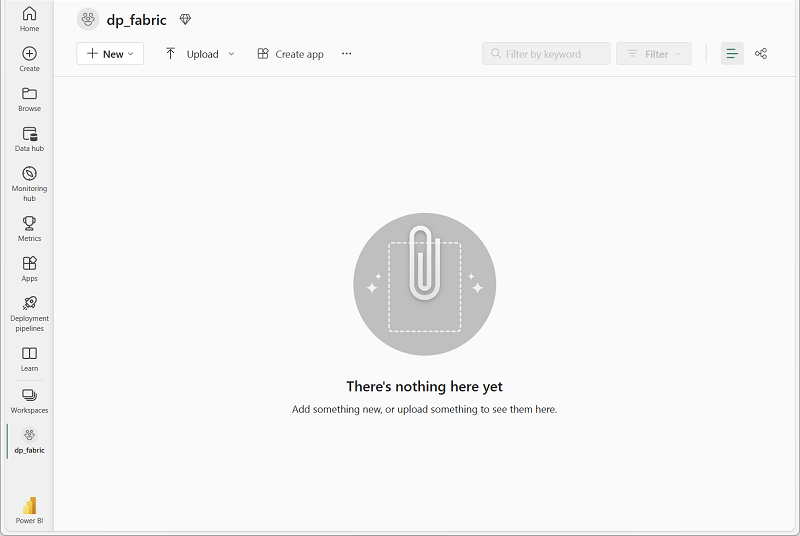
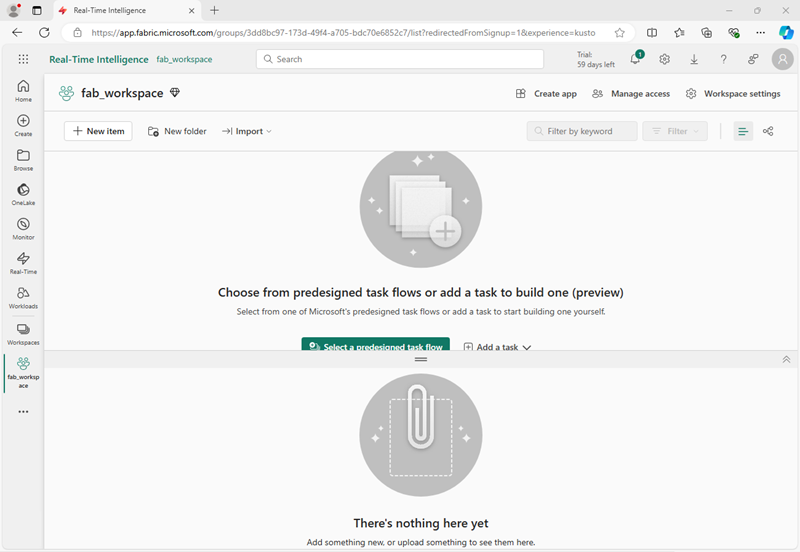
Updated RTI exercise

diff --git a/Instructions/Labs/07-real-time-Intelligence.md b/Instructions/Labs/07-real-time-Intelligence.md
@@ -6,15 +6,15 @@ lab:
 
 # Get started with Real-Time Intelligence in Microsoft Fabric
 
-Microsoft Fabric provides a runtime that you can use to store and query data by using Kusto Query Language (KQL). Kusto is optimized for data that includes a time series component, such as real-time data from log files or IoT devices.
+Microsoft Fabric provides a Real-Time Hub in which you can create analytical solutions for real-time data streams. In this exercise, you'll explore some of the main features of the Real-Time Hub in order to familiarize yourself with them.
 
 This lab takes approximately **30** minutes to complete.
 
-> **Note**: You need a [Microsoft Fabric trial](https://learn.microsoft.com/fabric/get-started/fabric-trial) to complete this exercise.
+> **Note**: You need a [Microsoft Fabric tenant](https://learn.microsoft.com/fabric/get-started/fabric-trial) to complete this exercise.
 
 ## Create a workspace
 
-Before working with data in Fabric, create a workspace with the Fabric trial enabled.
+Before working with data in Fabric, you need to create a workspace with the Fabric capacity enabled.
 
 1. On the [Microsoft Fabric home page](https://app.fabric.microsoft.com/home?experience=fabric) at `https://app.fabric.microsoft.com/home?experience=fabric`, select **Real-Time Intelligence**.
 1. In the menu bar on the left, select **Workspaces** (the icon looks similar to &#128455;).
@@ -23,123 +23,142 @@ Before working with data in Fabric, create a workspace with the Fabric trial ena
 
     ![Screenshot of an empty workspace in Fabric.](./Images/new-workspace.png)
 
-## Download file for KQL database
+## Create an Eventhouse
 
-Now that you have a workspace, it's time to download the data file you're going to analyze.
+Now that you have a workspace, you can start creating the Fabric items you'll need for your real-time intelligence solution. we'll start by creating an eventhouse, which contains a KQL database for your real-time data.
 
-1. Download the data file for this exercise from [https://raw.githubusercontent.com/MicrosoftLearning/dp-data/main/sales.csv](https://raw.githubusercontent.com/MicrosoftLearning/dp-data/main/sales.csv), saving it as **sales.csv** on your local computer (or lab VM if applicable)
-1. Return to the browser window with the **Microsoft Fabric** Experience.
+1. On the menu bar on the left, select **Home**; and then in the Real-Time Intelligence home page, create a new **Eventhouse**, giving it a unique name of your choice.
+1. Close any tips or prompts that are displayed until you see your new empty eventhouse.
 
-## Create a KQL database
+    ![Screenshot of a new eventhouse](./Images/create-eventhouse.png)
 
-Kusto query language (KQL) is used to query static or streaming data in a table that is defined in a KQL database. To analyze the sales data, you must create a table in a KQL database and ingest the data from the file.
+1. In the pane on the left, note that your eventhouse contains a KQL database with the same name as the eventhouse. You can create tables for your real-time data in this database, or create additional databases as necessary.
+1. Select the database, and note that there is an associated *queryset*. This file contains some sample KQL queries that you can use to get started querying the tables in your database.
 
-1. At the bottom left of the portal, switch to the Real-Time Intelligence experience.
+    However, currently there are no tables to query. Let's resolve that problem by using an eventstream to ingest some data into the database.
 
-    ![Screenshot of the experience switcher menu.](./Images/fabric-real-time.png)
+## Create an Eventstream
 
-2. In the Real-Time Intelligence home page, create a new **Eventhouse** with a name of your choice.
+1. In the main page of your KQL database, select **Get data**.
+2. For the data source, select **Eventstream** > **New eventstream**. Name the Eventstream `stock-stream`.
 
-   ![Screenshot of the RTI Editor with Eventhouse Highlighted.](./Images/create-kql-db.png)
+    The creation of your new eventstream will be completed in just a few moments. Once established, you will be automatically redirected to the primary editor, ready to begin integrating sources into your event stream.
 
-   The Eventhouse is used to group and manage your databases across projects. An empty KQL database is automatically created with the eventhouse's name.
-   
-3. Once the new database has been created, select it from the list on the left under KQL Databases. Then select the option to get data from **Local File**. Use the wizard to import the data into a new table by selecting the following options:
-    - **Destination**:
-        - **Database**: *The database you created is already selected*
-        - **Table**: *Create a new table named* **sales** by clicking on the + sign to the left of ***New table***
+    ![Screenshot of a new eventstream.](./Images//name-eventstream.png)
 
-        ![New table wizard step one](./Images/import-wizard-local-file-1.png?raw=true)
+1. In the eventstream canvas, select **Use sample data**.
+1. Name the source `Stock`, and select the **Stock Market** sample data.
 
-        - Youll now see the **Drag files here or a Browse for files** hyperlink appear in the same window.
+    Your stream will be mapped and you will be automatically displayed on the **eventstream canvas**.
 
-        ![New table wizard step two](./Images/import-wizard-local-file-2.png?raw=true)
+   ![Screenshot of the eventstream canvas.](./Images/new-stock-stream.png)
 
-        - browse or drag your **sales.csv** onto the screen and wait for the Status box to change to a green check box and then select **Next**
+1. In the **Transform events or add destination** drop-down list, in the **Destinations** section, select **Eventhouse**.
+1. In the **Eventhouse** pane, configure the following setup options.
+   - **Data ingestion mode:**: Event processing before ingestion
+   - **Destination name:** `stock-table`
+   - **Workspace:** *Select the workspace you created at the beginning of this exercise*
+   - **Eventhouse**: *Select your eventhouse*
+   - **KQL database:** *Select your eventhouse KQL database*
+   - **Destination table:** Create a new table named `stock`
+   - **Input data format:** JSON
 
-        ![New table wizard step three](./Images/import-wizard-local-file-3.png?raw=true)
+   ![KQL Database eventstream with ingestion modes](./Images/configure-destination.png)
 
-        - In this screen you'll see that your column headings are in the first row although the system detected them, we still need to move the slider above these lines **First row is column header** in order to get keep from getting any errors.
-        
-        ![New table wizard step four](./Images/import-wizard-local-file-4.png?raw=true)
+1. In the **Eventhouse** pane, select **Save**.
+1. On the toolbar, select **Publish**.
+1. Wait a minute or so for the data destination to become active.
 
-        - Once you select this slider you will see everything looks good to go, select the **Finish** button on the bottom right of the panel.
+    In this exercise, you've created a very simple eventstream that captures real-time data and loads it into a table. In a real soltuion, you'd typically add transformations to aggregate the data over temporal windows (for example, to capture the average price of each stock over five-minute periods).
 
-        ![New table wizard step five](./Images/import-wizard-local-file-5.png?raw=true)
+    Now let's explore how you can query and analyze the captured data.
 
-        - Wait for the steps in the summary screen to complete which include:
-            - Create table (sales)
-            - create mapping (sales_mapping)
-            - Data queuing
-            - Ingestion
-        - Select the **Close** button
+## Query the captured data
 
-        ![New table wizard step six](./Images/import-wizard-local-file-6.png?raw=true)
+The eventstream captures real-time stock market data and loads it into a table in your KQL database. You can query this table to see the captured data.
 
-> **Note**: In this example, you imported a very small amount of static data from a file, which is fine for the purposes of this exercise. In reality, you can use Kusto to analyze much larger volumes of data; including real-time data from a streaming source such as Azure Event Hubs.
+1. In the menu bar on the left, select your eventhouse database.
+1. Select the *queryset* for your database.
+1. In the query pane, modify the first example query as shown here:
 
-## Use KQL to query the sales table
-
-Now that you have a table of data in your database, you can use KQL code to query it.
-
-1. Make sure you have the **sales** table highlighted. From the menu bar, select the **Query table** drop-down, and from there select **Show any 100 records** .
-
-2. A new pane will open with the query and its result. 
-
-3. Modify the query as follows:
-
-    ```kusto
-   sales
-   | where Item == 'Road-250 Black, 48'
+    ```kql
+    stock
+    | take 100
     ```
 
-4. Run the query. Then review the results, which should contain only the rows for sales orders for the *Road-250 Black, 48* product.
+1. Select the query code and run it to see 100 rows of data from the table.
 
-5. Modify the query as follows:
+    ![Screenshot of a KQL query.](./Images/kql-stock-query.png)
 
-    ```kusto
-   sales
-   | where Item == 'Road-250 Black, 48'
-   | where datetime_part('year', OrderDate) > 2020
+1. Review the results, then modify the query to retrieve the average price for each stock symbol in the last 5 minutes:
+
+    ```kql
+    stock
+    | where ["time"] > ago(5m)
+    | summarize avgPrice = avg(todecimal(bidPrice)) by symbol
+    | project symbol, avgPrice
     ```
 
-6. Run the query and review the results, which should contain only sales orders for *Road-250 Black, 48* made after 2020.
+1. Highlight the modified query and run it to see the results.
+1. Wait a few seconds and run it again, noting that the average prices change as new data is added to the table from the real-time stream.
 
-7. Modify the query as follows:
+## Create a real-time dashboard
 
-    ```kusto
-   sales
-   | where OrderDate between (datetime(2020-01-01 00:00:00) .. datetime(2020-12-31 23:59:59))
-   | summarize TotalNetRevenue = sum(UnitPrice) by Item
-   | sort by Item asc
-    ```
+Now that you have a table that is being populated by stream of data, you can use a real-time dashboard to visualize the data.
 
-8. Run the query and review the results, which should contain the total net revenue for each product between January 1st and December 31st 2020 in ascending order of product name.
+1. In the query editor, select the KQL query you used to retrieve the average stock prices for the last five minutes.
+1. On the toolbar, select **Pin to dashboard**. Then pin the query **in a new dashboard** with the following settings:
+    - **Dashboard name**: `Stock Dashboard`
+    - **Tile name**: `Average Prices`
+1. Create the dashboard and open it. It should look like this:
 
-## Create a Power BI report from a KQL Queryset
+    ![Screenshot of a new dashboard.](./Images/stock-dashboard-table.png)
 
-You can use your KQL Queryset as the basis for a Power BI report.
+1. At the top of the dashboard, switch from **Viewing** mode to **Editing** mode.
+1. Select the **Edit** (*pencil*) icon for the **Average Prices** tile.
+1. In the **Visual formatting** pane, change the **Visual** from *Table* to *Column chart*:
 
-1. In the query workbench editor for your query set, run the query and wait for the results.
-2. Select **Power BI** and wait for the report editor to open.
-3. In the report editor, in the **Data** pane, expand **Kusto Query Result** and select the **Item** and **TotalRevenue** fields.
-4. On the report design canvas, select the table visualization that has been added and then in the **Visualizations** pane, select **Clustered bar chart**.
+    ![Screenshot of a dashboard tile being edited.](./Images/edit-dashboard-tile.png)
 
-    ![Screenshot of a report from a KQL query.](./Images/kql-report.png)
+1. At the top of the dashboard, select **Apply changes** and view your modified dashboard:
 
-5. In the **Power BI** window, in the **File** menu, select **Save**. Then save the report as **Revenue by Item.pbix** in the workspace where your lakehouse and KQL database are defined using a **Non-Business** sensitivity label.
-6. Close the **Power BI** window, and in the bar on the left, select the icon for your workspace.
+    ![Screenshot of a dashboard with a chart tile.](./Images/stock-dashboard-chart.png)
 
-    Refresh the Workspace page if necessary to view all of the items it contains.
+    Now you have a live visualization of your real-time stock data.
 
-7. In the list of items in your workspace, note that the **Revenue by Item** report is listed.
+## Create an alert
+
+Real-Time Intelligence in Microsoft Fabric includes a technology named *Activator*, which can trigger actions based on real-time events. Let's use it to alert you when the average stock price increases by a specific amount.
+
+1. In the dashboard window containing your stock price visualization, in the toolbar, select **Set alert**.
+1. In the **Set alert** pane, create an alert with the following settings:
+    - **Run query every**: 5 minutes
+    - **Check**: On each event grouped by
+    - **Grouping field**: symbol
+    - **When**: avgPrice
+    - **Condition**: Increases by
+    - **Value**: 100
+    - **Action**: Send me an email
+    - **Save location**:
+        - **Workspace**: *Your workspace*
+        - **Item**: Create a new item
+        - **New item name**: *A unique name of your choice*
+
+    ![Screenshot of alert settings.](./Images/configure-activator.png)
+
+1. Create the alert and wait for it to be saved. Then close the pane confirming it has been created.
+1. In the menu bar on the left, select the page for your workspace (saving any unsaved changes to your dashboard if prompted).
+1. On the workspace page, view the items you have created in this exercise, including the activator for your alert.
+1. Open the activator, and in its page, under the **avgPrice** node, select the unique identifier for your event. Then view its **History** tab.
+
+    Your event may not have been triggered, in which case the history will contain no data. If the average stock price ever changes by more than 100, the activator will send you an email and the even will be recorded in the event history.
 
 ## Clean up resources
 
-In this exercise, you have created a lakehouse, a KQL database to analyze the data uploaded into the lakehouse. You used KQL to query the data and create a query set, which was then used to create a Power BI report.
+In this exercise, you have create an eventhouse, ingested real-time data using an eventstream, queried the ingested data in a KQL database table, created a real-time dashboard to visualize the real-time data, and configured an alert using Activator.
 
-If you've finished exploring your KQL database, you can delete the workspace you created for this exercise.
+If you've finished exploring Real-Time Intelligence in Fabric, you can delete the workspace you created for this exercise.
 
 1. In the bar on the left, select the icon for your workspace.
-2. In the **...** menu on the toolbar, select **Workspace settings**.
+2. In the toolbar, select **Workspace settings**.
 3. In the **General** section, select **Remove this workspace**.

diff --git a/Instructions/Labs/09-real-time-analytics-eventstream.md b/Instructions/Labs/09-real-time-analytics-eventstream.md
@@ -42,11 +42,10 @@ Before working with data in Fabric, create a workspace with the Fabric trial ena
 
 1. Create a new database and name it `Eventhouse-DB`.
 
-
 ## Create an Eventstream
 
 1. In the main page of your KQL database, select **Get data**.
-2. For the data source, select **Eventstream** > **New eventstream**. Name the Eventstream `Bicycle data`.
+2. For the data source, select **Eventstream** > **New eventstream**. Name the Eventstream `bicycle-data`.
 
     The creation of your new event stream in the workspace will be completed in just a few moments. Once established, you will be automatically redirected to the primary editor, ready to begin integrating sources into your event stream.
 
@@ -57,7 +56,7 @@ Before working with data in Fabric, create a workspace with the Fabric trial ena
 1. In the Eventstream canvas, select **Use sample data**.
 2. Name the source `Bicycles`, and select the **Bicycles** sample data.
 
-    Your stream will be mapped and you will be automatically disp;layed on the **eventstream canvas**.
+    Your stream will be mapped and you will be automatically displayed on the **eventstream canvas**.
 
    ![Review the eventstream canvas](./Images/real-time-intelligence-eventstream-sourced.png)
 
@@ -68,7 +67,7 @@ Before working with data in Fabric, create a workspace with the Fabric trial ena
    - **Data ingestion mode:**: Event processing before ingestion
    - **Destination name:** `Bicycle-database`
    - **Workspace:** *Select the workspace you created at the beginning of this exercise*
-   - **Eventhouse**: *Select your event house*
+   - **Eventhouse**: *Select your eventhouse*
    - **KQL database:** Eventhouse-DB
    - **Destination table:** Create a new table named `bike-count`
    - **Input data format:** JSON
@@ -92,7 +91,7 @@ The eventstream you have created takes data from the sample source of bicycle da
     | take 100
     ```
 
-1. Select the query code and run it to see the first 100 rows in the table.
+1. Select the query code and run it to see 100 rows of data from the table.
 
     ![Screenshot of a KQL query.](./Images/kql-query.png)
 
